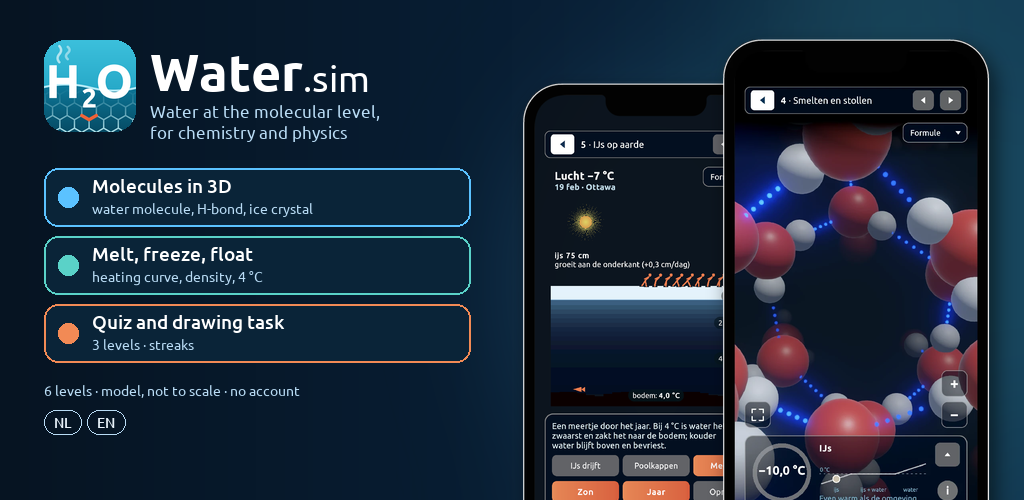
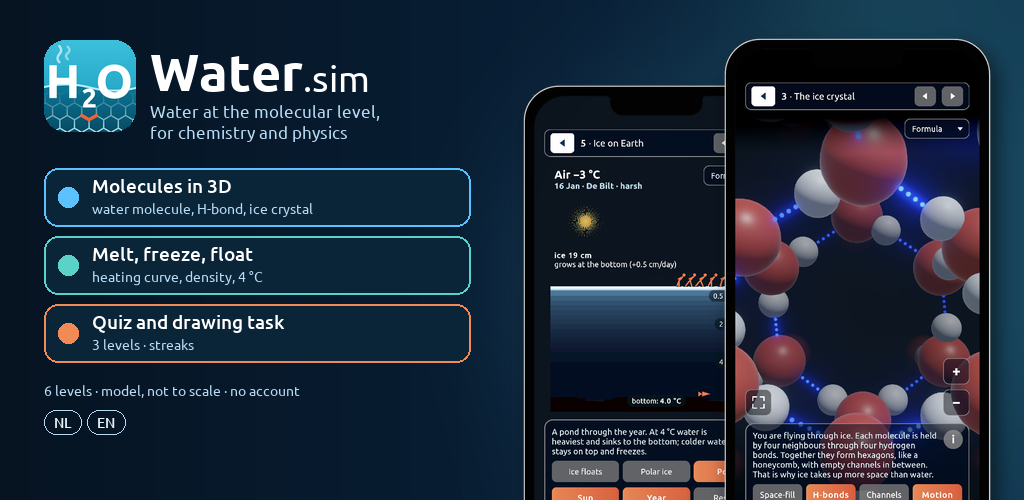
Storemateriaal Engels: 7 telefoonscreenshots (App Store en Play), zoekresultaten en header met Engelse schermen

Changed region(s): [[0.5312, 0.06, 0.9688, 1.0], [0.5625, 0.42, 0.5938, 0.48], [0.5, 0.18, 0.5312, 0.21]]

diff --git a/Marketing/out/store/maak_header.py b/Marketing/out/store/maak_header.py
@@ -7,7 +7,11 @@ FM = os.path.join(HIER, "../../../Assets/Fonts/Ubuntu/Ubuntu-Medium.ttf")
 FR = os.path.join(HIER, "../../../Assets/Fonts/Ubuntu/Ubuntu-Regular.ttf")
 FB = os.path.join(HIER, "../../../Assets/Fonts/Ubuntu/Ubuntu-Bold.ttf")
 icoon = Image.open(os.path.join(HIER, "../../../Assets/Icoon/icoon_1024.png")).convert("RGBA")
-VLIEG, MEER = os.path.join(HIER, "schermen/scherm_1.png"), os.path.join(HIER, "schermen/scherm_3.png")
+def schermen(taal):
+    """De twee telefoons in de header: vliegen door ijs (1) en het meertje (3), in de taal van de header als die er is."""
+    m = os.path.join(HIER, "schermen" if taal == "nl" else "schermen_" + taal)
+    if not os.path.exists(os.path.join(m, "scherm_1.png")): m = os.path.join(HIER, "schermen")
+    return os.path.join(m, "scherm_1.png"), os.path.join(m, "scherm_3.png")
 BLAUW, TEAL, ORANJE = (91, 194, 255), (90, 210, 200), (242, 138, 85)
 LICHT = (185, 220, 245)
 
@@ -92,7 +96,9 @@ for taal, t in T.items():
         sch = Image.new("RGBA", (W, H), (0, 0, 0, 0)); m = Image.new("L", p.size, 0); m.paste(p.getchannel("A"))
         sch.paste((0, 0, 0, 150), (sx + 6, sy + 10), m)
         im.alpha_composite(sch.filter(ImageFilter.GaussianBlur(10))); im.alpha_composite(p.crop((0, 0, p.width, min(p.height, H - sy))), (sx, sy))
-    tel(MEER, 520, 80, 0.40); tel(VLIEG, 720, 36, 0.40)
+    VLIEG, MEER = schermen(taal)
+    sv = 0.40 * Image.open(os.path.join(HIER, "schermen/scherm_1.png")).height / Image.open(VLIEG).height   # zelfde hoogte als de NL-schermen
+    tel(MEER, 520, 80, sv); tel(VLIEG, 720, 36, sv)
     os.makedirs(os.path.join(HIER, "header"), exist_ok=True)
     im.convert("RGB").save(os.path.join(HIER, f"header/googleplay_feature_graphic_1024x500_{taal}.png"))
 

diff --git a/Marketing/out/store/maak_screenshots.py b/Marketing/out/store/maak_screenshots.py
@@ -15,13 +15,14 @@ TEKSTEN = {
         ("De waterstofbrug", "δ+ trekt aan δ−, in 3D"),
         ("Teken zelf waterstofbruggen", "quiz met streaks · 3 niveaus"),
         ("En er komt meer", "Mpemba, onderkoeling, sneeuwvlokken …")],
+ # Engelse reeks: deels andere schermen dan de Nederlandse (level 1 en kalotten in plaats van water bij 4 °C en Ontdek)
  "en": [("Fly through ice", "molecule by molecule, with every hydrogen bond"),
         ("Why does ice float?", "the open honeycomb of ice: 0.917 g/cm³"),
         ("A pond through the year", "11 places on Earth · when can you go skating?"),
-        ("Melting and freezing", "water is heaviest at 4 °C"),
+        ("The water molecule", "104.5°, δ+ and δ−: why water is a dipole"),
         ("The hydrogen bond", "δ+ attracts δ−, in 3D"),
-        ("Draw hydrogen bonds yourself", "quiz with streaks · 3 levels"),
-        ("And there is more to come", "Mpemba, supercooling, snowflakes …")]}
+        ("Draw hydrogen bonds yourself", "with instant feedback · quiz with streaks"),
+        ("Space-filling or ball-and-stick", "from −20 to +80 °C")]}
 IJS = {1, 2, 4}          # ijs en water: koele blauwe gloed
 MEER = {3}               # meertje: blauw-groen
 QUIZ = {6}               # quiz: warme oranje gloed (de oranje knoppen van de app)
